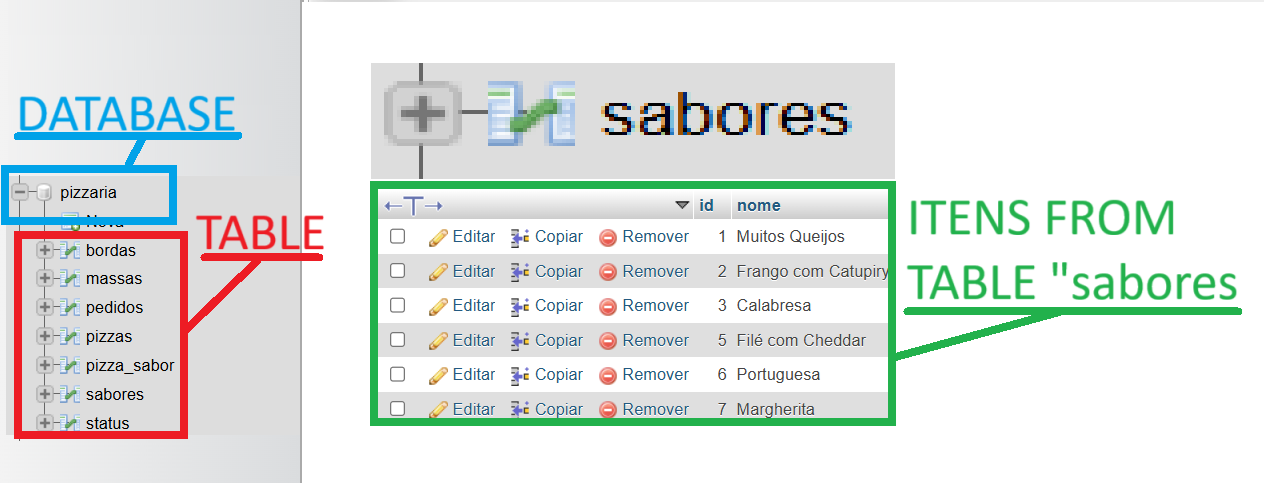
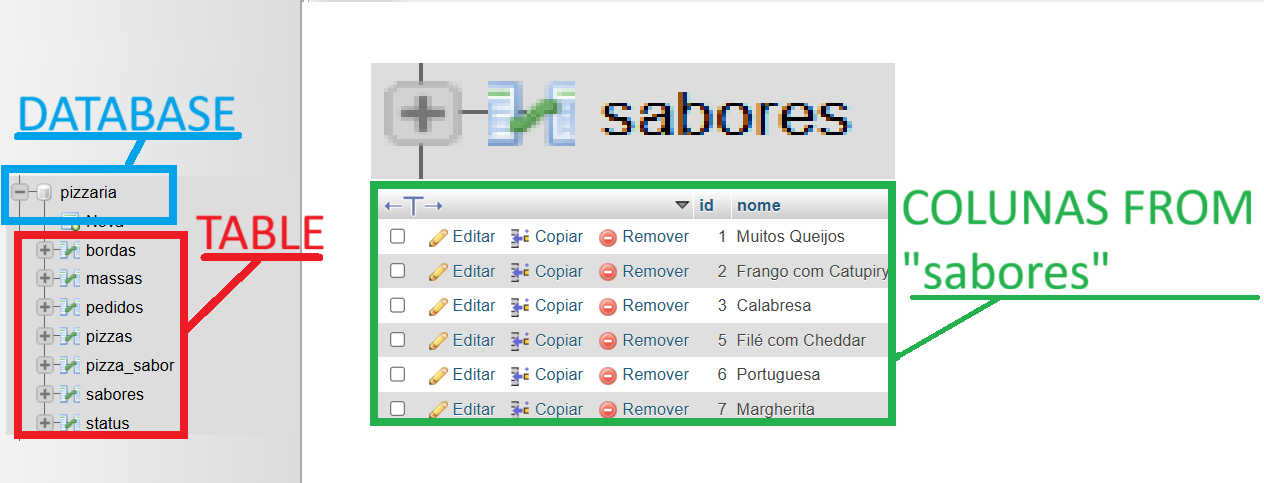
anotei coisas sobre table e colunas

Changed region(s): [[0.7097, 0.528, 1.0, 0.7453], [0.7097, 0.3727, 1.0, 0.4969]]

diff --git a/html_css_knowledge/Linguagens de programação/MySQL/Bases Gerais MySQL.md b/html_css_knowledge/Linguagens de programação/MySQL/Bases Gerais MySQL.md
@@ -1,4 +1,5 @@
 # O que é : 
+* SQL é a **linguagem** que o MySQL utiliza.
 
 # Coisas Base : 
 ## Sintaxe : 
@@ -13,6 +14,8 @@
 
 ## Coisas realmente básicas : 
 * Quando for manipular em um banco de dados através do [workbank](MySQL_workbank), utilize o comando **"USE nome_do_banco"**, para avisar ao MySQL qual data base você deseja manipular.  
+* Para comentar, use "-- --".
+* [LINK PARA REVER TUDO.](https://youtu.be/XQkf-6Yl3WM?si=_I158NcIfEchQ-m0)
 # Manipulação de um Banco de Dados Básica : 
 ## Criar/Deletar Data Base 
 ### Criar :
@@ -31,6 +34,83 @@ DROP DATABASE ronaldo_banco;
 /* APÓS EXECUTAR :  
 Banco de dados deletado
 ```
-## Criar/Deletar [Table](MySQL_organizacao_do_database) : 
-* Para mexer numa tabela, antes você precisar avisar ao [workbank](MySQL_workbank) em qual banco de dados você esta manipulando, então usando o comando **"USE nome_do_banco"**, você irá acessar o data base desejado. 
-### Criar :
+
+# Manipulação de [Table](MySQL_organizacao_do_database) :
+## Criar :
+* Para criar uma table, use as Query "CREATE" , "TABLE", o nome da sua tabela e as colunas que ela irá possuir. 
+* As colunas possuem tipos, sendo os principais : 
+	* VARCHAR(\_par) --> Tipo string mais utilizado, o numero que você colocar no parâmetro será a quantidade de caracteres aceitos por essa coluna. 
+* EX : 
+```MySQL
+USE pizzaria;
+CREATE TABLE sabores(
+	peperoni VARCHAR(10),
+	calabresa VARCHAR(10)
+);
+```
+
+## Deletar : 
+* Para deletar uma table, use as Query "DROP", "TABLE" e o nome da sua table. 
+* EX:
+```MySQL
+USE pizzaria;
+DROP TABLE sabores;
+```
+
+## Alterar : 
+* A base geral de alterar alguma coisa da tabela segue a mesma logica, sendo essa :
+	* ==ALTER TABLE nome ALTERAÇÃO==
+		* A query de ação "ALTER" indica que irá modificar algo
+		* A query de especificação "TABLE" indica que irá modificar uma tabela 
+		* "nome" é o nome da tabela que irá ser modificada.
+		* "ALTERAÇÃO" é o que você deseja alterar da tabela
+### Adicionar coluna :
+* Para adicionar colunas a uma tabela já existente, use :
+```MySQL
+ALTER TABLE sabores ADD COLUMN quatro_queijos VARCHAR(255);
+```
+### Deletar uma coluna : 
+* Para deletar uma coluna, use : 
+```MySQL 
+ALTER TABLE sabores DROP COLUMN peperoni;
+-- "peperoni" é uma coluna que existe na table "sabores"
+```
+
+
+
+
+## CRUD :
+### O que é :
+* São recursos para a manipulação de uma [tabela](MySQL_organizacao_do_database)
+* É dividido em 4 operações, onde cada uma significa :
+	* C = Create --> INSERT
+	* R = Read --> SELECT
+	* U = Update --> 
+	* D = Delete
+### INSERT :
+* No CRUD, ele insere **valores** nas colunas de uma table.
+* EX:
+```MySQL
+-- Tabela "pessoas" possui as colunas : "nome", "idade" e "profissao"
+INSERT INTO pessoas(nome,idade,profissao)
+VALUES("ronaldo",19,"programador");
+```
+
+# Tipos de Dados :
+## Texto : 
+* VARCHAR(x) :
+	* Tipo string mais utilizado, 
+	* Limita a quantidade de caracteres que a variável pode receber. 
+
+## Números :  
+* INT :
+	* Tipo de numero mais básico.
+	* Pode limitar sua quantidade de caracteres.
+## Datas : 
+* TIMESTAMP :
+	* Consegue guardar todas as informações de tempo.
+	* São o ano, mês , dia , hora , minuto , segundos. 
+* DATE :
+	* Consegue informações sobre o dia.
+	* São ano, mês e dia
+

diff --git a/html_css_knowledge/Linguagens de programação/MySQL/Funções MySQL.md b/html_css_knowledge/Linguagens de programação/MySQL/Funções MySQL.md
@@ -5,9 +5,12 @@
 ## Apagar um banco de dados : 
 * **DROP DATABASE nome_do_banco** --> Deleta um banco de dados. 
 
-# Comandos de Ação : 
-* CREATE  : Cria alguma coisa 
-* DROP : Serve para deletar alguma coisa 
+# Querys de Ação : 
+* CREATE  : Cria alguma coisa.
+* DROP : Serve para deletar alguma coisa. 
+* ALTER : Serve para alterar alguma coisa.
 
-# Comandos de Especificação : 
+# Querys de Especificação : 
 * DATABASE : Especifica um banco de dados. 
+* TABLE : Especifica uma tabela. 
+

diff --git a/html_css_knowledge/Linguagens de programação/MySQL/coisas/MySQL_usando_banco.md b/html_css_knowledge/Linguagens de programação/MySQL/coisas/MySQL_usando_banco.md
@@ -1,0 +1,12 @@
+# O QUE É :
+* É quando você especifica sua [workbank](MySQL_workbank) em um banco de dados especifico. 
+* Para fazer isso possui duas maneiras : 
+	* Usar o Query "USE" mais o nome do banco de dados que você deseja antes de digitar  seus comandos.
+		* EX:
+		```MySQL
+		USE ronaldo;
+		CREATE TABLE nomes(
+		leandro VARCHAR()
+		);
+		```
+	* Clique no banco de dados que deseja e clique no botão SQL. 

diff --git a/html_css_knowledge/Linguagens de programação/MySQL/coisas/MySQL_workbank.md b/html_css_knowledge/Linguagens de programação/MySQL/coisas/MySQL_workbank.md
@@ -1,3 +1,4 @@
 # O QUE É :
-* É a área onde você pode digitar códigos no MySQL, permitindo você criar bancos de dados, alterar, configurar e ETC. 
+* É a área onde você pode digitar códigos no MySQL, permitindo você criar bancos de dados, alterar, configurar e ETC.
+* Algumas funções só funcionam se você [usar um banco de dados](MySQL_usando_banco) especifico.
 ![[workbank.png]]
